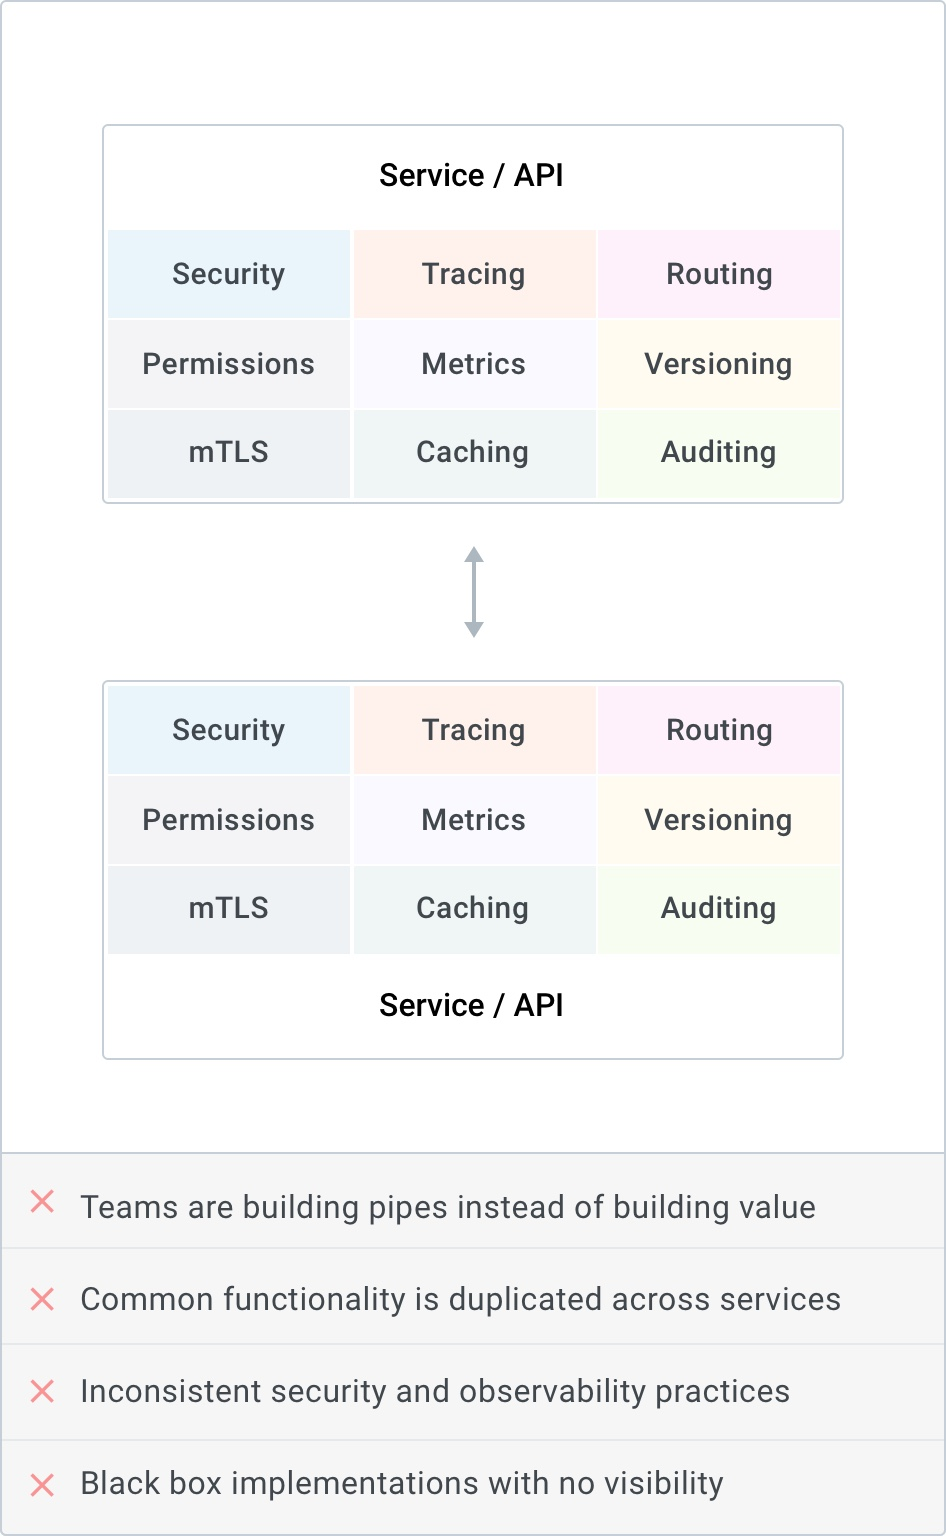
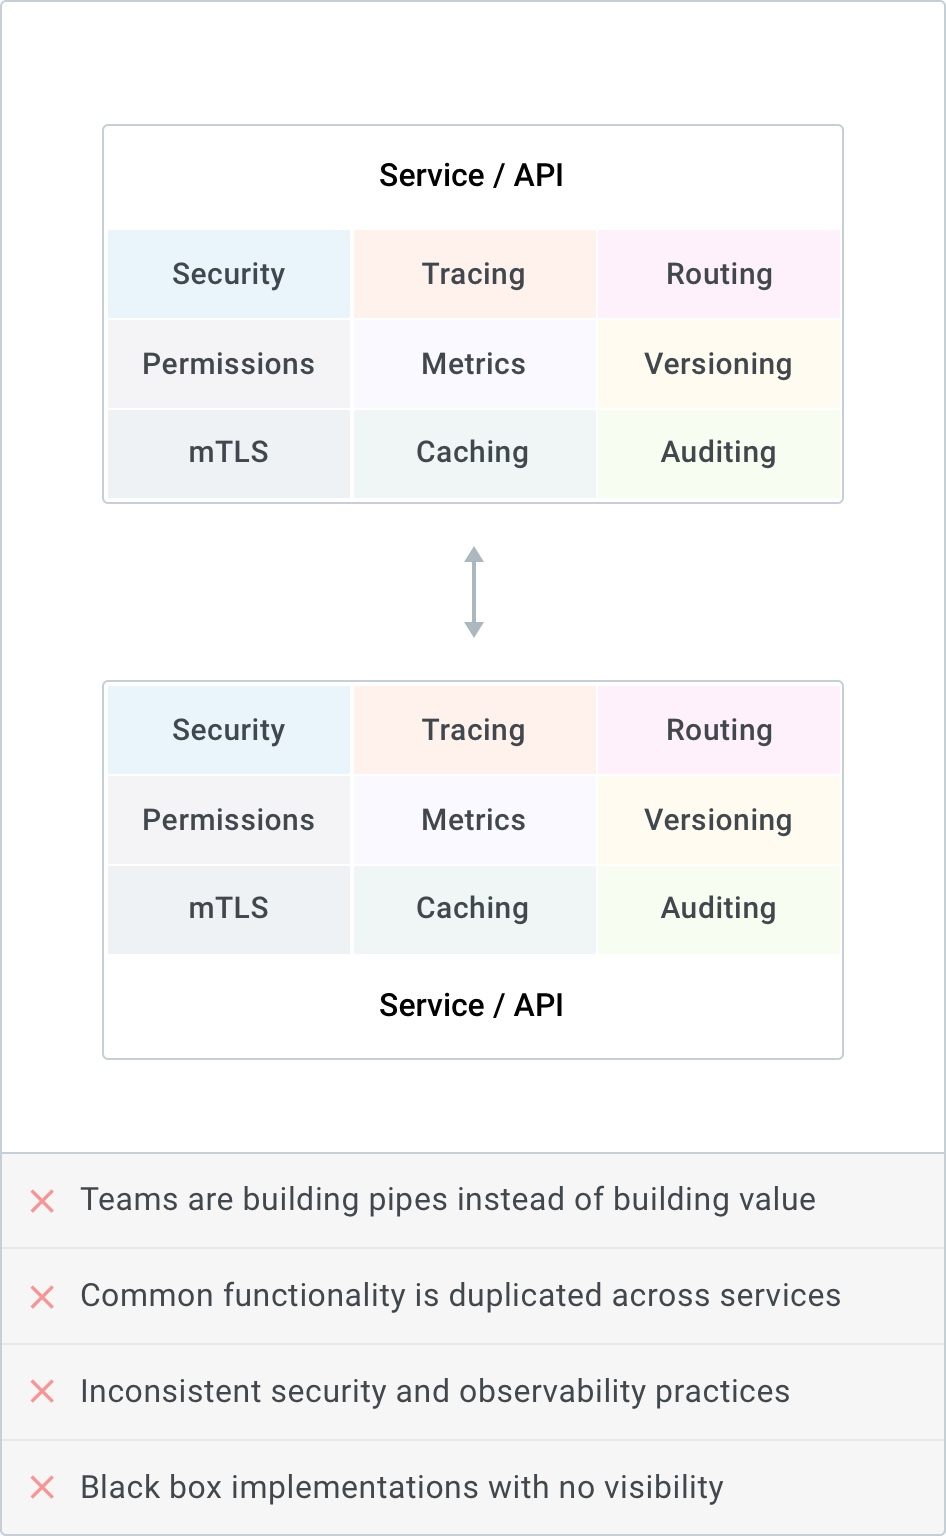
Homepage diagrams replaced with revised ones from Chuca. Sticky sidebar now works properly and consistently. Revised the footer styles to no longer interfere with the sidebar.

diff --git a/docs/.vuepress/theme/components/Sidebar.vue b/docs/.vuepress/theme/components/Sidebar.vue
@@ -1,19 +1,21 @@
 <template>
-  <aside class="sidebar">
-    <VersionNav/>
+  <div class="sidebar-wrapper">
+    <aside class="sidebar">
+      <VersionNav/>
 
-    <!-- <AlgoliaSearchBox
-      v-if="isAlgoliaSearch"
-      :options="algolia"
-    /> -->
-    <!-- <SearchBox v-else-if="$site.themeConfig.search !== false && $page.frontmatter.search !== false"/> -->
+      <!-- <AlgoliaSearchBox
+        v-if="isAlgoliaSearch"
+        :options="algolia"
+      /> -->
+      <!-- <SearchBox v-else-if="$site.themeConfig.search !== false && $page.frontmatter.search !== false"/> -->
 
-    <NavLinks/>
+      <NavLinks/>
 
-    <slot name="top"/>
-    <SidebarLinks :depth="0" :items="items"/>
-    <slot name="bottom"/>
-  </aside>
+      <slot name="top"/>
+      <SidebarLinks :depth="0" :items="items"/>
+      <slot name="bottom"/>
+    </aside>
+  </div>
 </template>
 
 <script>

diff --git a/docs/.vuepress/theme/styles/custom/components/_sidebar.scss b/docs/.vuepress/theme/styles/custom/components/_sidebar.scss
@@ -11,6 +11,10 @@ $sidebar-button-left-spacing: 1.5rem;
 
 // Sidebar
 
+.sidebar-wrapper {
+
+}
+
 .sidebar {
   position: fixed;
   top: 0;
@@ -20,6 +24,7 @@ $sidebar-button-left-spacing: 1.5rem;
   background-color: #fff;
   font-size: $base-font-size;
   width: $sidebarWidth;
+  min-height: 100vh;
   // padding-top: $navbarHeight;
   top: $navbarHeight;
 
@@ -95,12 +100,15 @@ a.sidebar-link {
 
 @media (min-width: $MQNarrowMid + 1) {
   .sidebar {
-    // position: relative;
-    // top: auto; left: auto; bottom: auto;
+    position: sticky;
+    top: $navbarHeight;
+    left: auto;
+    bottom: auto;
+    // padding-top: $navbarHeight;
   }
 
   .page {
-    padding-left: 15rem;
+    // padding-left: 15rem;
   }
 
   .theme-container.no-sidebar .sidebar {

diff --git a/docs/.vuepress/theme/styles/custom/components/_footer.scss b/docs/.vuepress/theme/styles/custom/components/_footer.scss
@@ -134,16 +134,16 @@ $page-footer-desktop-height: 29.688rem;
   // not overlap the sidebar at any point on
   // larger screens.
   .page-footer {
-    height: $page-footer-desktop-height;
+    // height: $page-footer-desktop-height;
 
-    // this puts the footer above the bottom part
-    // of the fixed sidebar on larger screens
-    position: relative;
-    z-index: 10;
+    // // this puts the footer above the bottom part
+    // // of the fixed sidebar on larger screens
+    // position: relative;
+    // z-index: 10;
   }
 
   .content-wrapper {
-    min-height: calc(100vh - #{$page-footer-desktop-height});
+    // min-height: calc(100vh - #{$page-footer-desktop-height});
   }
 
   .page-footer__sublinks {
